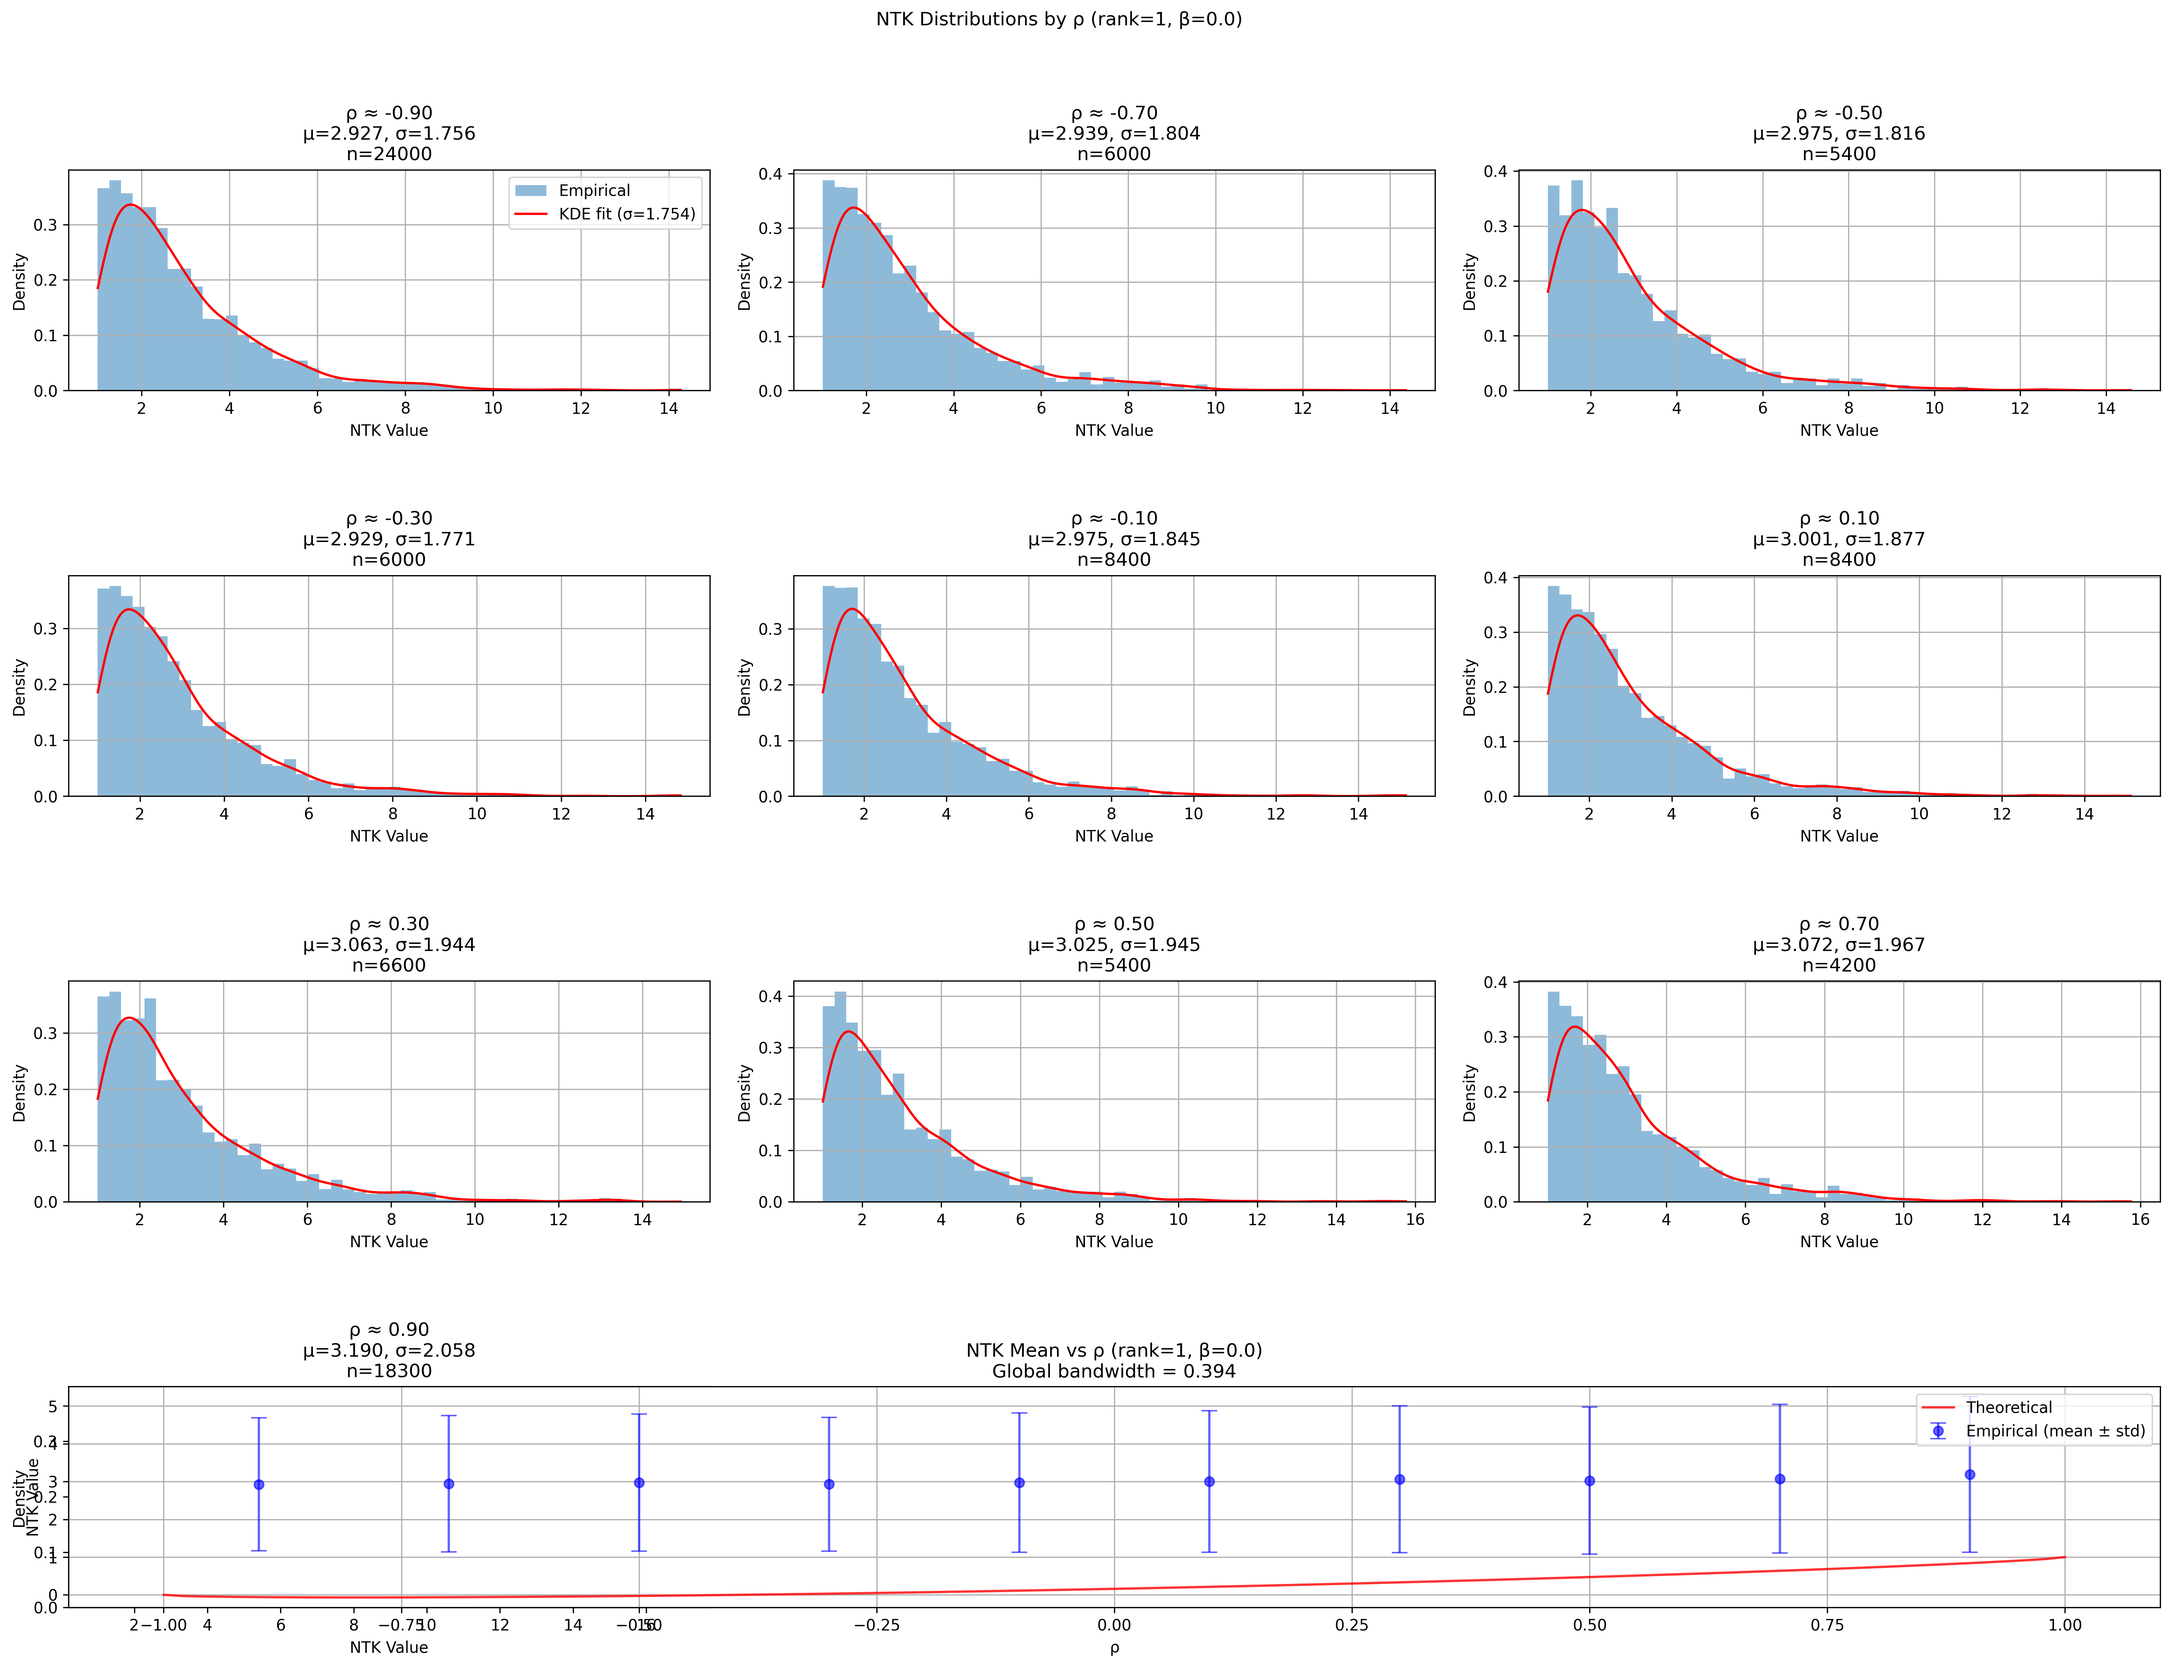
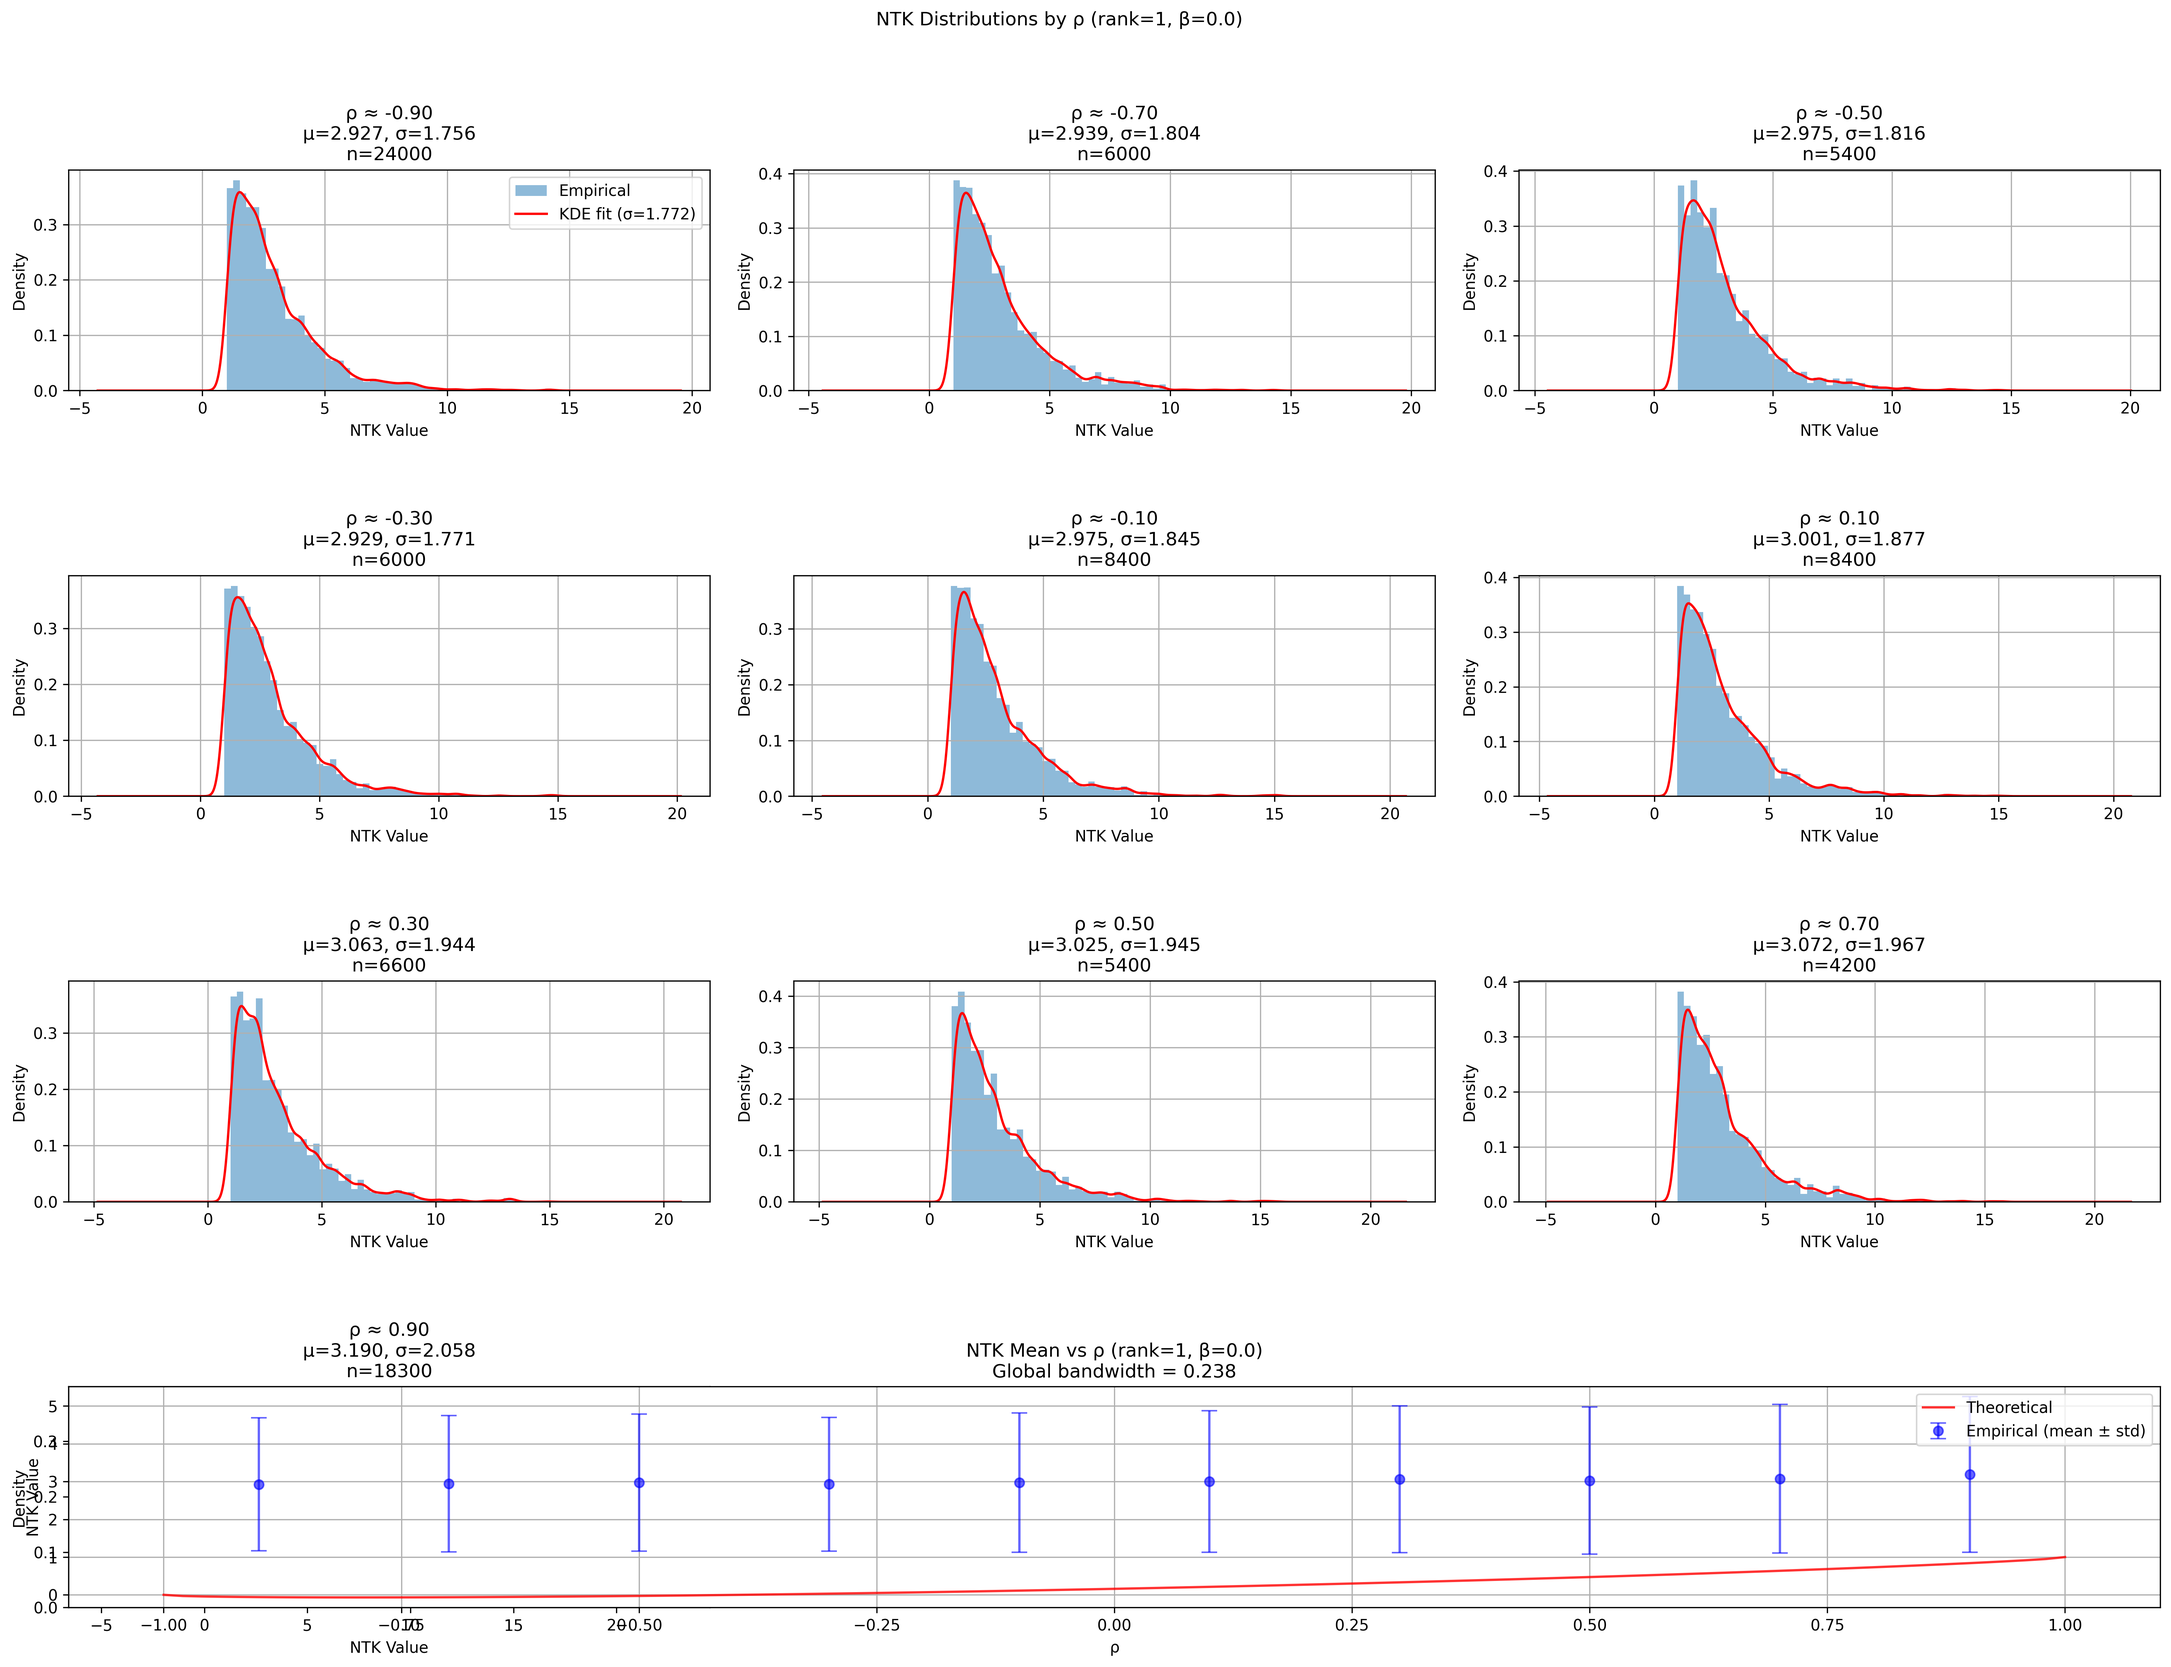
with the silverman rule now, without getting more than the mean so great plot, low dim plot to be sure of the scaling with rho

diff --git a/experiments/extract_ntk_law.py b/experiments/extract_ntk_law.py
@@ -119,8 +119,8 @@ def analyze_ntk_distribution(rank, beta, kernel='gaussian', bandwidth=0.2):
                     # we collect values
                     for i in range(n):
                         for j in range(n):
-                            ntk_values.extend(samples[:, i, j])
-                            dot_products.extend([dots[i, j]] * len(samples))
+                            ntk_values.extend(samples[:, i, j].tolist())  # we convert to list
+                            dot_products.extend([float(dots[i, j])] * len(samples))  # we ensure float
     
     if not ntk_values:
         return
@@ -137,43 +137,27 @@ def analyze_ntk_distribution(rank, beta, kernel='gaussian', bandwidth=0.2):
         if len(ntk_in_bin) > 0:
             distributions_by_rho[rho_center] = {
                 'values': ntk_in_bin,
-                'mean': np.mean(ntk_in_bin),
-                'std': np.std(ntk_in_bin)
+                'mean': float(np.mean(ntk_in_bin)),  # we ensure float
+                'std': float(np.std(ntk_in_bin))     # we ensure float
             }
     
-    # we optimize a global bandwidth to match std across all bins
-    def global_fit_bandwidth(bw):
-        total_error = 0
-        for rho in distributions_by_rho:
-            values = distributions_by_rho[rho]['values']
-            emp_std = distributions_by_rho[rho]['std']
-            
-            kde = KernelDensity(kernel=kernel, bandwidth=bw)
-            kde.fit(values.reshape(-1, 1))
-            x_grid = np.linspace(min(values), max(values), 1000).reshape(-1, 1)
-            log_dens = kde.score_samples(x_grid)
-            dens = np.exp(log_dens)
-            
-            # we compute std of fitted distribution
-            x_grid = x_grid.flatten()
-            fitted_mean = np.sum(x_grid * dens) / np.sum(dens)
-            fitted_std = np.sqrt(np.sum((x_grid - fitted_mean)**2 * dens) / np.sum(dens))
-            
-            # we add squared relative error
-            total_error += ((fitted_std - emp_std) / emp_std) ** 2
-            
-        return np.sqrt(total_error / len(distributions_by_rho))  # we return RMSE
+    # we compute optimal bandwidth using Silverman's rule for each bin
+    def compute_silverman_bandwidth(data):
+        n = len(data)
+        sigma = np.std(data)
+        iqr = np.percentile(data, 75) - np.percentile(data, 25)
+        # we use min to be robust to outliers
+        scale = min(sigma, iqr/1.34)
+        return 0.9 * scale * n**(-0.2)
+
+    # we compute average Silverman bandwidth across all bins
+    all_bandwidths = []
+    for rho in distributions_by_rho:
+        values = distributions_by_rho[rho]['values']
+        if len(values) > 1:
+            all_bandwidths.append(compute_silverman_bandwidth(values))
     
-    # we use Silverman's rule of thumb as initial guess on all data
-    n = len(ntk_values)
-    initial_bw = 1.06 * np.std(ntk_values) * n**(-1/5)
-    
-    # we optimize bandwidth
-    from scipy.optimize import minimize_scalar
-    opt_result = minimize_scalar(global_fit_bandwidth, 
-                               bounds=(initial_bw/10, initial_bw*10), 
-                               method='bounded')
-    optimal_bw = opt_result.x
+    optimal_bw = float(np.mean(all_bandwidths))
     
     # we create figure for distributions by rho
     fig = plt.figure(figsize=(20, 15))
@@ -182,26 +166,31 @@ def analyze_ntk_distribution(rank, beta, kernel='gaussian', bandwidth=0.2):
     # we plot distributions for each rho bin with optimal bandwidth
     for i, rho in enumerate(sorted(distributions_by_rho.keys())):
         values = distributions_by_rho[rho]['values']
-        emp_mean = distributions_by_rho[rho]['mean']
-        emp_std = distributions_by_rho[rho]['std']
+        emp_mean = float(np.mean(values))
+        emp_std = float(np.std(values))
         
         plt.subplot(gs[i//3, i%3])
         
-        # we plot histogram
+        # we plot normalized histogram
         plt.hist(values, bins=50, density=True, alpha=0.5, label='Empirical')
         
-        # we fit and plot KDE with optimal bandwidth
         if len(values) > 1:
             kde = KernelDensity(kernel=kernel, bandwidth=optimal_bw)
-            kde.fit(values.reshape(-1, 1))
-            x_grid = np.linspace(min(values), max(values), 1000).reshape(-1, 1)
-            log_dens = kde.score_samples(x_grid)
+w            kde.fit(values.reshape(-1, 1))
+            
+            # we extend grid for better visualization
+            x_grid = np.linspace(min(values) - 3*emp_std, max(values) + 3*emp_std, 2000)
+            log_dens = kde.score_samples(x_grid.reshape(-1, 1))
             dens = np.exp(log_dens)
             
-            # we compute fitted std for this bin
-            x_grid = x_grid.flatten()
-            fitted_mean = np.sum(x_grid * dens) / np.sum(dens)
-            fitted_std = np.sqrt(np.sum((x_grid - fitted_mean)**2 * dens) / np.sum(dens))
+            # we ensure proper normalization
+            dx = x_grid[1] - x_grid[0]
+            dens = dens / (np.sum(dens) * dx)
+            
+            # we compute moments for verification
+            fitted_mean = float(np.sum(x_grid * dens) * dx)
+            fitted_var = float(np.sum((x_grid - fitted_mean)**2 * dens) * dx)
+            fitted_std = float(np.sqrt(fitted_var))
             
             plt.plot(x_grid, dens, 'r-', 
                     label=f'KDE fit (σ={fitted_std:.3f})')
@@ -243,30 +232,101 @@ def analyze_ntk_distribution(rank, beta, kernel='gaussian', bandwidth=0.2):
     plt.close()
     
     # we print statistics
-    print(f"\nStatistics for rank={rank}, β={beta} (global bandwidth = {optimal_bw:.3f}):")
+    print(f"\nStatistics for rank={rank}, β={beta} (bandwidth = {optimal_bw:.3f}):")
     print("-" * 120)
     print(f"{'ρ':^10} | {'Count':^8} | {'Emp Mean':^12} | {'Emp Std':^12} | {'KDE Std':^12} | {'Theory':^12} | {'Diff':^12}")
     print("-" * 120)
     for rho in sorted(distributions_by_rho.keys()):
         values = distributions_by_rho[rho]['values']
-        emp_mean = distributions_by_rho[rho]['mean']
-        emp_std = distributions_by_rho[rho]['std']
+        emp_mean = float(np.mean(values))
+        emp_std = float(np.std(values))
         
         # we compute KDE std for this bin
         kde = KernelDensity(kernel=kernel, bandwidth=optimal_bw)
         kde.fit(values.reshape(-1, 1))
-        x_grid = np.linspace(min(values), max(values), 1000).reshape(-1, 1)
-        log_dens = kde.score_samples(x_grid)
+        x_grid = np.linspace(min(values) - 3*emp_std, max(values) + 3*emp_std, 2000)
+        log_dens = kde.score_samples(x_grid.reshape(-1, 1))
         dens = np.exp(log_dens)
-        x_grid = x_grid.flatten()
-        fitted_mean = np.sum(x_grid * dens) / np.sum(dens)
-        fitted_std = np.sqrt(np.sum((x_grid - fitted_mean)**2 * dens) / np.sum(dens))
+        dx = x_grid[1] - x_grid[0]
+        dens = dens / (np.sum(dens) * dx)
+        
+        fitted_mean = float(np.sum(x_grid * dens) * dx)
+        fitted_var = float(np.sum((x_grid - fitted_mean)**2 * dens) * dx)
+        fitted_std = float(np.sqrt(fitted_var))
         
         theo_val = ntk_formula(rho, beta)
         diff = emp_mean - theo_val
         print(f"{rho:^10.3f} | {len(values):^8d} | {emp_mean:^12.3f} | {emp_std:^12.3f} | "
               f"{fitted_std:^12.3f} | {theo_val:^12.3f} | {diff:^12.3f}")
     print("-" * 120)
+
+    # we store min values for later analysis
+    return {
+        'beta': beta,
+        'rank': rank,
+        'min_values': {rho: np.min(distributions_by_rho[rho]['values']) for rho in distributions_by_rho}
+    }
+
+# %%
+# we analyze distributions and collect min values
+min_value_data = []
+for rank in ranks:
+    for beta in betas:
+        for kernel in KERNELS:
+            result = analyze_ntk_distribution(rank, beta, kernel)
+            if result is not None:
+                min_value_data.append(result)
+
+# we plot min values vs rank for each beta
+plt.figure(figsize=(15, 10))
+
+for beta in betas:
+    beta_data = [d for d in min_value_data if d['beta'] == beta]
+    if beta_data:
+        ranks_for_beta = sorted([d['rank'] for d in beta_data])
+        
+        # we collect min values across all rhos for each rank
+        min_vals = []
+        for rank in ranks_for_beta:
+            rank_data = next(d for d in beta_data if d['rank'] == rank)
+            min_vals.append(min(rank_data['min_values'].values()))
+        
+        plt.subplot(121)
+        plt.plot(ranks_for_beta, min_vals, 'o-', label=f'β={beta}')
+
+        plt.subplot(122)
+        plt.loglog(ranks_for_beta, min_vals, 'o-', label=f'β={beta}')
+
+plt.subplot(121)
+plt.title('Minimum NTK Value vs Rank')
+plt.xlabel('Rank')
+plt.ylabel('Min NTK Value')
+plt.grid(True)
+plt.legend()
+
+plt.subplot(122)
+plt.title('Minimum NTK Value vs Rank (log-log)')
+plt.xlabel('Rank')
+plt.ylabel('Min NTK Value')
+plt.grid(True)
+plt.legend()
+
+plt.tight_layout()
+plt.savefig(os.path.join(output_dir, 'min_ntk_vs_rank.png'), bbox_inches='tight', dpi=300)
+plt.close()
+
+# we print min value analysis
+print("\nMinimum NTK Value Analysis:")
+print("-" * 80)
+print(f"{'β':^10} | {'Rank':^10} | {'Min Value':^15} | {'ρ at min':^15}")
+print("-" * 80)
+for data in min_value_data:
+    beta = data['beta']
+    rank = data['rank']
+    min_val = min(data['min_values'].values())
+    rho_at_min = min(data['min_values'].items(), key=lambda x: x[1])[0]
+    print(f"{beta:^10.2f} | {rank:^10d} | {min_val:^15.3f} | {rho_at_min:^15.3f}")
+print("-" * 80)
 
 # %%
 # we analyze distributions for each rank and beta

diff --git a/refs/wk11-ntkmmnn-experiments/ideas.md b/refs/wk11-ntkmmnn-experiments/ideas.md
@@ -8,3 +8,10 @@ out and in giagonal coeffcients lower with rank
 std is also divided with rank, and shape of ntk is gaussian for in diagonal (or looks like pyramid also, to link with rmt)
 
 and outdiagonal is tailed, with mode near 1 but become gaussian with ranks going to infty
+
+
+
+justifier le 2 layer par la simulation gaussienne possible
+on a un petit scaling
+
+appliquer directement approximation
